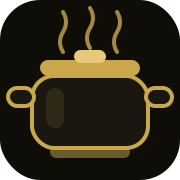
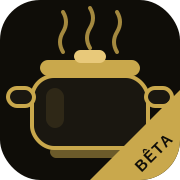
fix: icône bêta

Changed region(s): [[0.5, 0.5, 1.0, 1.0]]

diff --git a/index.html b/index.html
@@ -4071,131 +4071,31 @@ const QUOTES = [
 
   window.shareApp = async () => {
     const userName = currentUser?.displayName?.split(' ')[0] || 'Frédéric';
-    const text = userName + " t'invite à utiliser Saveurs, l'appli de recettes familiales !\n\n🍲 Ouvrir l'appli :\nhttps://saveurs-app.vercel.app\n\n📖 Mode d'emploi :\nhttps://saveurs-app.vercel.app/saveurs-guide.html\n\nConnecte-toi avec ton compte Google puis rejoins le groupe famille.";
+    const msg = [
+      userName + " t'invite à utiliser Saveurs, l'appli de recettes familiales !",
+      "",
+      "🍲 Ouvrir l'appli :",
+      "https://saveurs-app.vercel.app",
+      "",
+      "📖 Mode d'emploi :",
+      "https://saveurs-app.vercel.app/saveurs-guide.html",
+      "",
+      "Connecte-toi avec ton compte Google puis rejoins le groupe famille.",
+      "",
+      "N'hésite pas à partager l'appli autour de toi 😉"
+    ].join("\n");
     if (navigator.share) {
       try {
-        await navigator.share({ title: 'Saveurs — Recettes familiales', text });
+        await navigator.share({ title: 'Saveurs', text: msg });
       } catch(e) {
         if (e.name !== 'AbortError') {
-          // Fallback SMS
-          window.location.href = 'sms:?body=' + encodeURIComponent(text);
+          window.location.href = 'sms:?body=' + encodeURIComponent(msg);
         }
       }
     } else {
-      window.location.href = 'sms:?body=' + encodeURIComponent(text);
+      window.location.href = 'sms:?body=' + encodeURIComponent(msg);
     }
   };
-
-    // ===== FAQ PROFIL =====
-  const FAQ = [
-    { q: "Comment ajouter une recette ?", a: "Appuyez sur + en bas de l'écran. Remplissez les champs ou utilisez un des boutons d'import (URL, photo, PDF)." },
-    { q: "Comment importer depuis un site ?", a: "Dans le formulaire d'ajout, appuyez sur 'Importer depuis une URL', collez le lien et validez. Les champs se remplissent automatiquement." },
-    { q: "Comment importer depuis une photo ou un PDF ?", a: "Dans le formulaire d'ajout, utilisez 'Importer depuis une photo' ou 'Importer depuis un PDF'. L'IA extrait la recette automatiquement." },
-    { q: "Comment créer un groupe famille ?", a: "Allez dans Profil → Groupe famille → 'Créer un groupe'. Un code à 6 lettres est généré à partager avec votre famille." },
-    { q: "Comment rejoindre un groupe famille ?", a: "Profil → Groupe famille → entrez le code à 6 lettres fourni par le créateur et appuyez sur 'Rejoindre'." },
-    { q: "Comment planifier les repas de la semaine ?", a: "Dans l'onglet Semainier, appuyez sur un slot Midi ou Soir pour choisir une recette. Naviguez entre semaines avec ‹ ›." },
-    { q: "Comment ajouter un dessert ?", a: "Dans le semainier, chaque jour affiche un petit bouton '+ Dessert' en bas. Appuyez dessus pour l'activer." },
-    { q: "Comment créer la liste de courses ?", a: "Dans le semainier, cochez les repas avec ✓, puis 'Liste de courses'. Décochez ce que vous avez déjà et appuyez sur 'Générer la liste'." },
-    { q: "Comment dupliquer une semaine ?", a: "Dans le semainier → 'Dupliquer cette semaine vers...', naviguez au mois voulu et choisissez la semaine de destination." },
-    { q: "Comment noter qu'on a cuisiné une recette ?", a: "Ouvrez la recette, appuyez sur 'J'ai cuisiné ce plat', indiquez la date, le nombre de convives et les invités." },
-    { q: "Comment voir les restes ?", a: "Dans le semainier, quand vous choisissez un repas, les plats déjà planifiés cette semaine apparaissent en section 'Restes' en vert." },
-    { q: "Comment filtrer les recettes ?", a: "Sur la page Recettes, utilisez les deux rangées de filtres : catégorie (Plat, Dessert...) et régime (Viande, Poisson, Végé). Les deux se combinent." },
-    { q: "Comment exporter le planning en PDF ?", a: "Dans le semainier → 'PDF'. Le planning est généré en A4. Appuyez sur 'Partager / Enregistrer' pour le sauvegarder." },
-    { q: "Comment ajouter l'appli sur mon écran d'accueil ?", a: "Sur iPhone : ouvrez l'appli dans Safari, appuyez sur Partager puis 'Sur l'écran d'accueil'. Sur Android : menu du navigateur → 'Ajouter à l'écran d'accueil'." },
-    { q: "Comment partager l'application ?", a: "Allez dans Profil et appuyez sur 'Partager l'application'. Un message avec le lien est prêt à envoyer par SMS ou WhatsApp." },
-  ];
-
-  function renderProfileFAQ() {
-    const list = document.getElementById('profile-faq-list');
-    if (!list) return;
-    list.innerHTML = FAQ.map((item, i) => `
-      <div style="border-bottom:1px solid rgba(201,168,76,0.08)">
-        <button onclick="toggleProfileFAQ(${i})" style="width:100%;text-align:left;background:none;border:none;padding:12px 4px;cursor:pointer;display:flex;justify-content:space-between;align-items:center;gap:12px">
-          <span style="font-size:13px;color:var(--text);line-height:1.4">${item.q}</span>
-          <span id="pfaq-icon-${i}" style="color:var(--gold);font-size:16px;flex-shrink:0;transition:transform 0.2s">+</span>
-        </button>
-        <div id="pfaq-answer-${i}" style="display:none;padding:0 4px 12px;font-size:13px;color:var(--text2);line-height:1.6">${item.a}</div>
-      </div>`).join('');
-  }
-
-  window.toggleProfileFAQ = (i) => {
-    const answer = document.getElementById('pfaq-answer-' + i);
-    const icon = document.getElementById('pfaq-icon-' + i);
-    const isOpen = answer.style.display !== 'none';
-    answer.style.display = isOpen ? 'none' : 'block';
-    icon.textContent = isOpen ? '+' : '−';
-  };
-
-  // ===== MESSAGERIE UTILISATEUR =====
-  let currentMsgType = 'suggestion';
-
-  window.setMsgType = (type) => {
-    currentMsgType = type;
-    ['suggestion', 'bug', 'avis'].forEach(t => {
-      const btn = document.getElementById('msg-type-btn-' + t);
-      if (btn) {
-        btn.style.color = t === type ? 'var(--gold)' : 'var(--text3)';
-        btn.style.borderColor = t === type ? 'rgba(201,168,76,0.5)' : 'rgba(201,168,76,0.2)';
-      }
-    });
-  };
-
-  window.sendUserMessage = async () => {
-    const text = document.getElementById('msg-text').value.trim();
-    if (!text) { showToast("Écrivez un message d'abord"); return; }
-    try {
-      await addDoc(collection(db, 'messages'), {
-        uid: currentUser.uid,
-        displayName: currentUser.displayName || currentUser.email,
-        type: currentMsgType,
-        text,
-        createdAt: serverTimestamp(),
-        readByAdmin: false,
-        reply: null,
-        replyRead: false
-      });
-      document.getElementById('msg-text').value = '';
-      showToast('Message envoyé !');
-      await checkUnreadReply();
-    } catch(e) { showToast('Erreur : ' + e.message); }
-  };
-
-  async function checkUnreadReply() {
-    if (!currentUser) return;
-    try {
-      const q = query(collection(db, 'messages'), where('uid', '==', currentUser.uid));
-      const snap = await getDocs(q);
-      // Filtrer côté client : reply non null et pas encore lu
-      const unreadReplies = snap.docs
-        .map(d => ({ id: d.id, ...d.data() }))
-        .filter(d => d.reply && d.replyRead !== true);
-      const badge = document.getElementById('profile-badge');
-      if (badge) badge.style.display = unreadReplies.length > 0 ? 'block' : 'none';
-      renderProfileReplies(unreadReplies);
-    } catch(e) { console.error('checkUnreadReply:', e); }
-  }
-
-  function renderProfileReplies(docs) {
-    const zone = document.getElementById('profile-reply-zone');
-    if (!zone) return;
-    if (docs.length === 0) { zone.innerHTML = ''; return; }
-    zone.innerHTML = docs.map(d => {
-      const data = d; // déjà un objet plain
-      return `<div style="background:rgba(201,168,76,0.08);border:1px solid rgba(201,168,76,0.25);border-radius:12px;padding:14px;margin-bottom:12px">
-        <div style="font-size:11px;color:var(--gold);letter-spacing:1px;margin-bottom:6px">Réponse de Frédéric</div>
-        <div style="font-size:13px;color:var(--text2);line-height:1.6;margin-bottom:10px">${data.reply}</div>
-        <button onclick="markReplyRead('${d.id}')" style="background:none;border:none;color:var(--text3);font-size:12px;cursor:pointer;padding:0">✓ Marquer comme lu</button>
-      </div>`;
-    }).join('');
-  }
-
-  window.markReplyRead = async (msgId) => {
-    try {
-      await updateDoc(doc(db, 'messages', msgId), { replyRead: true });
-      await checkUnreadReply();
-    } catch(e) { console.error('markReplyRead:', e); }
-  };
-
   window.showToast = (msg) => {
     const t = document.getElementById('toast');
     t.textContent = msg;
